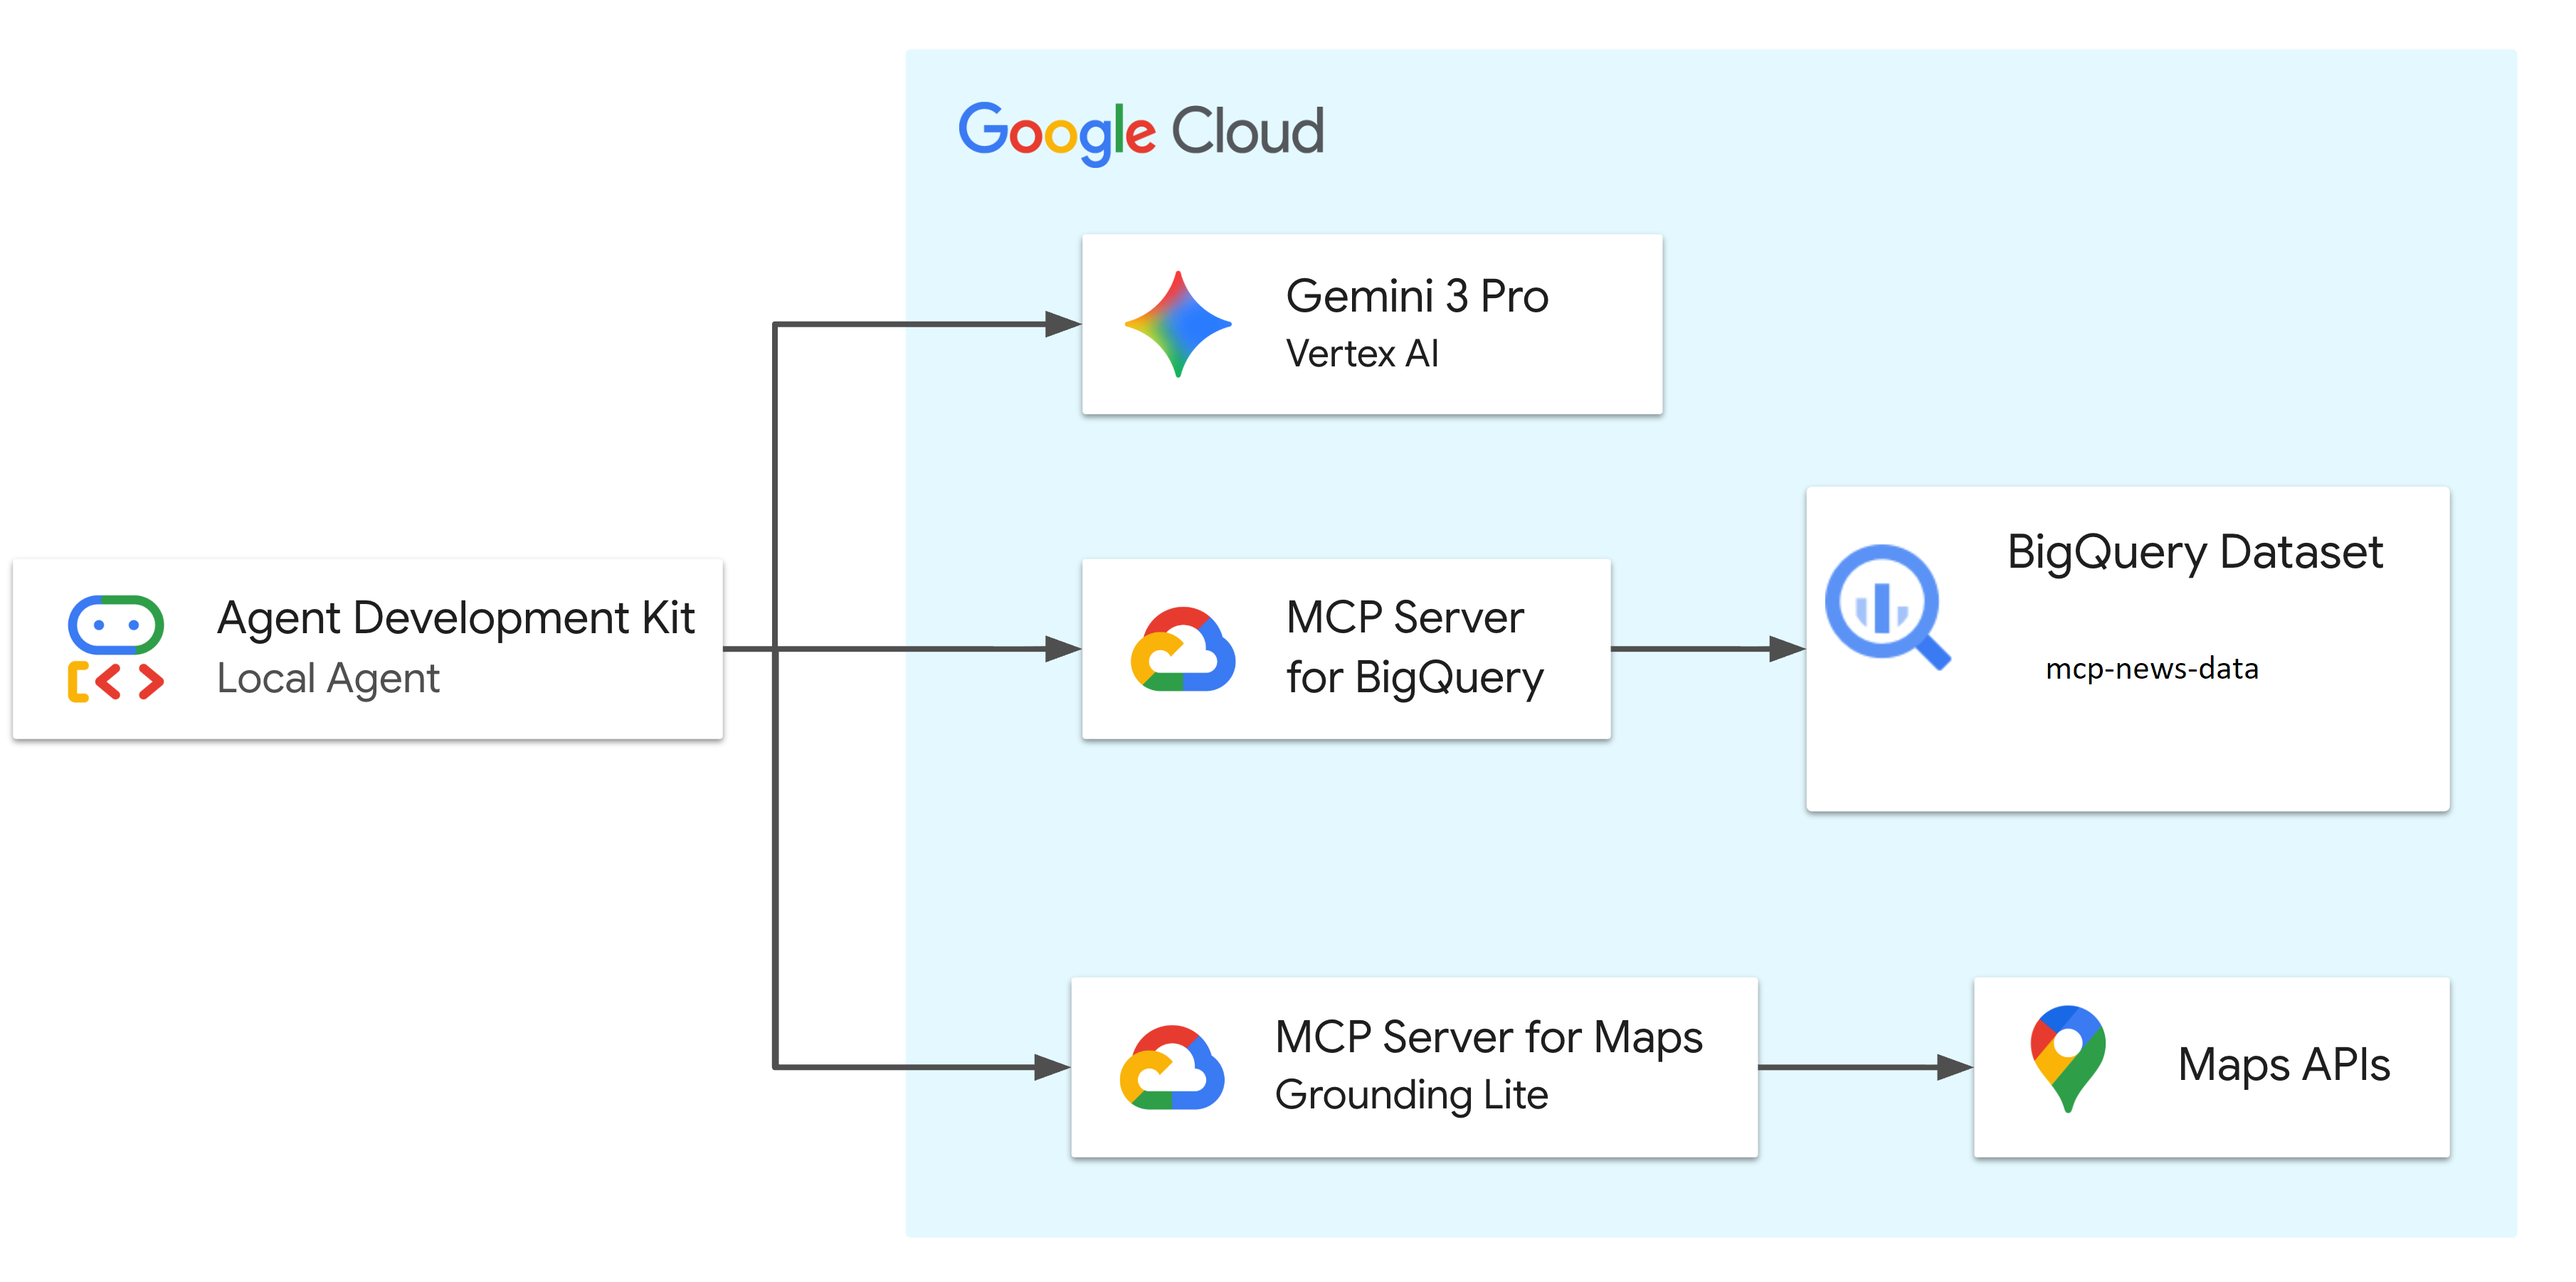
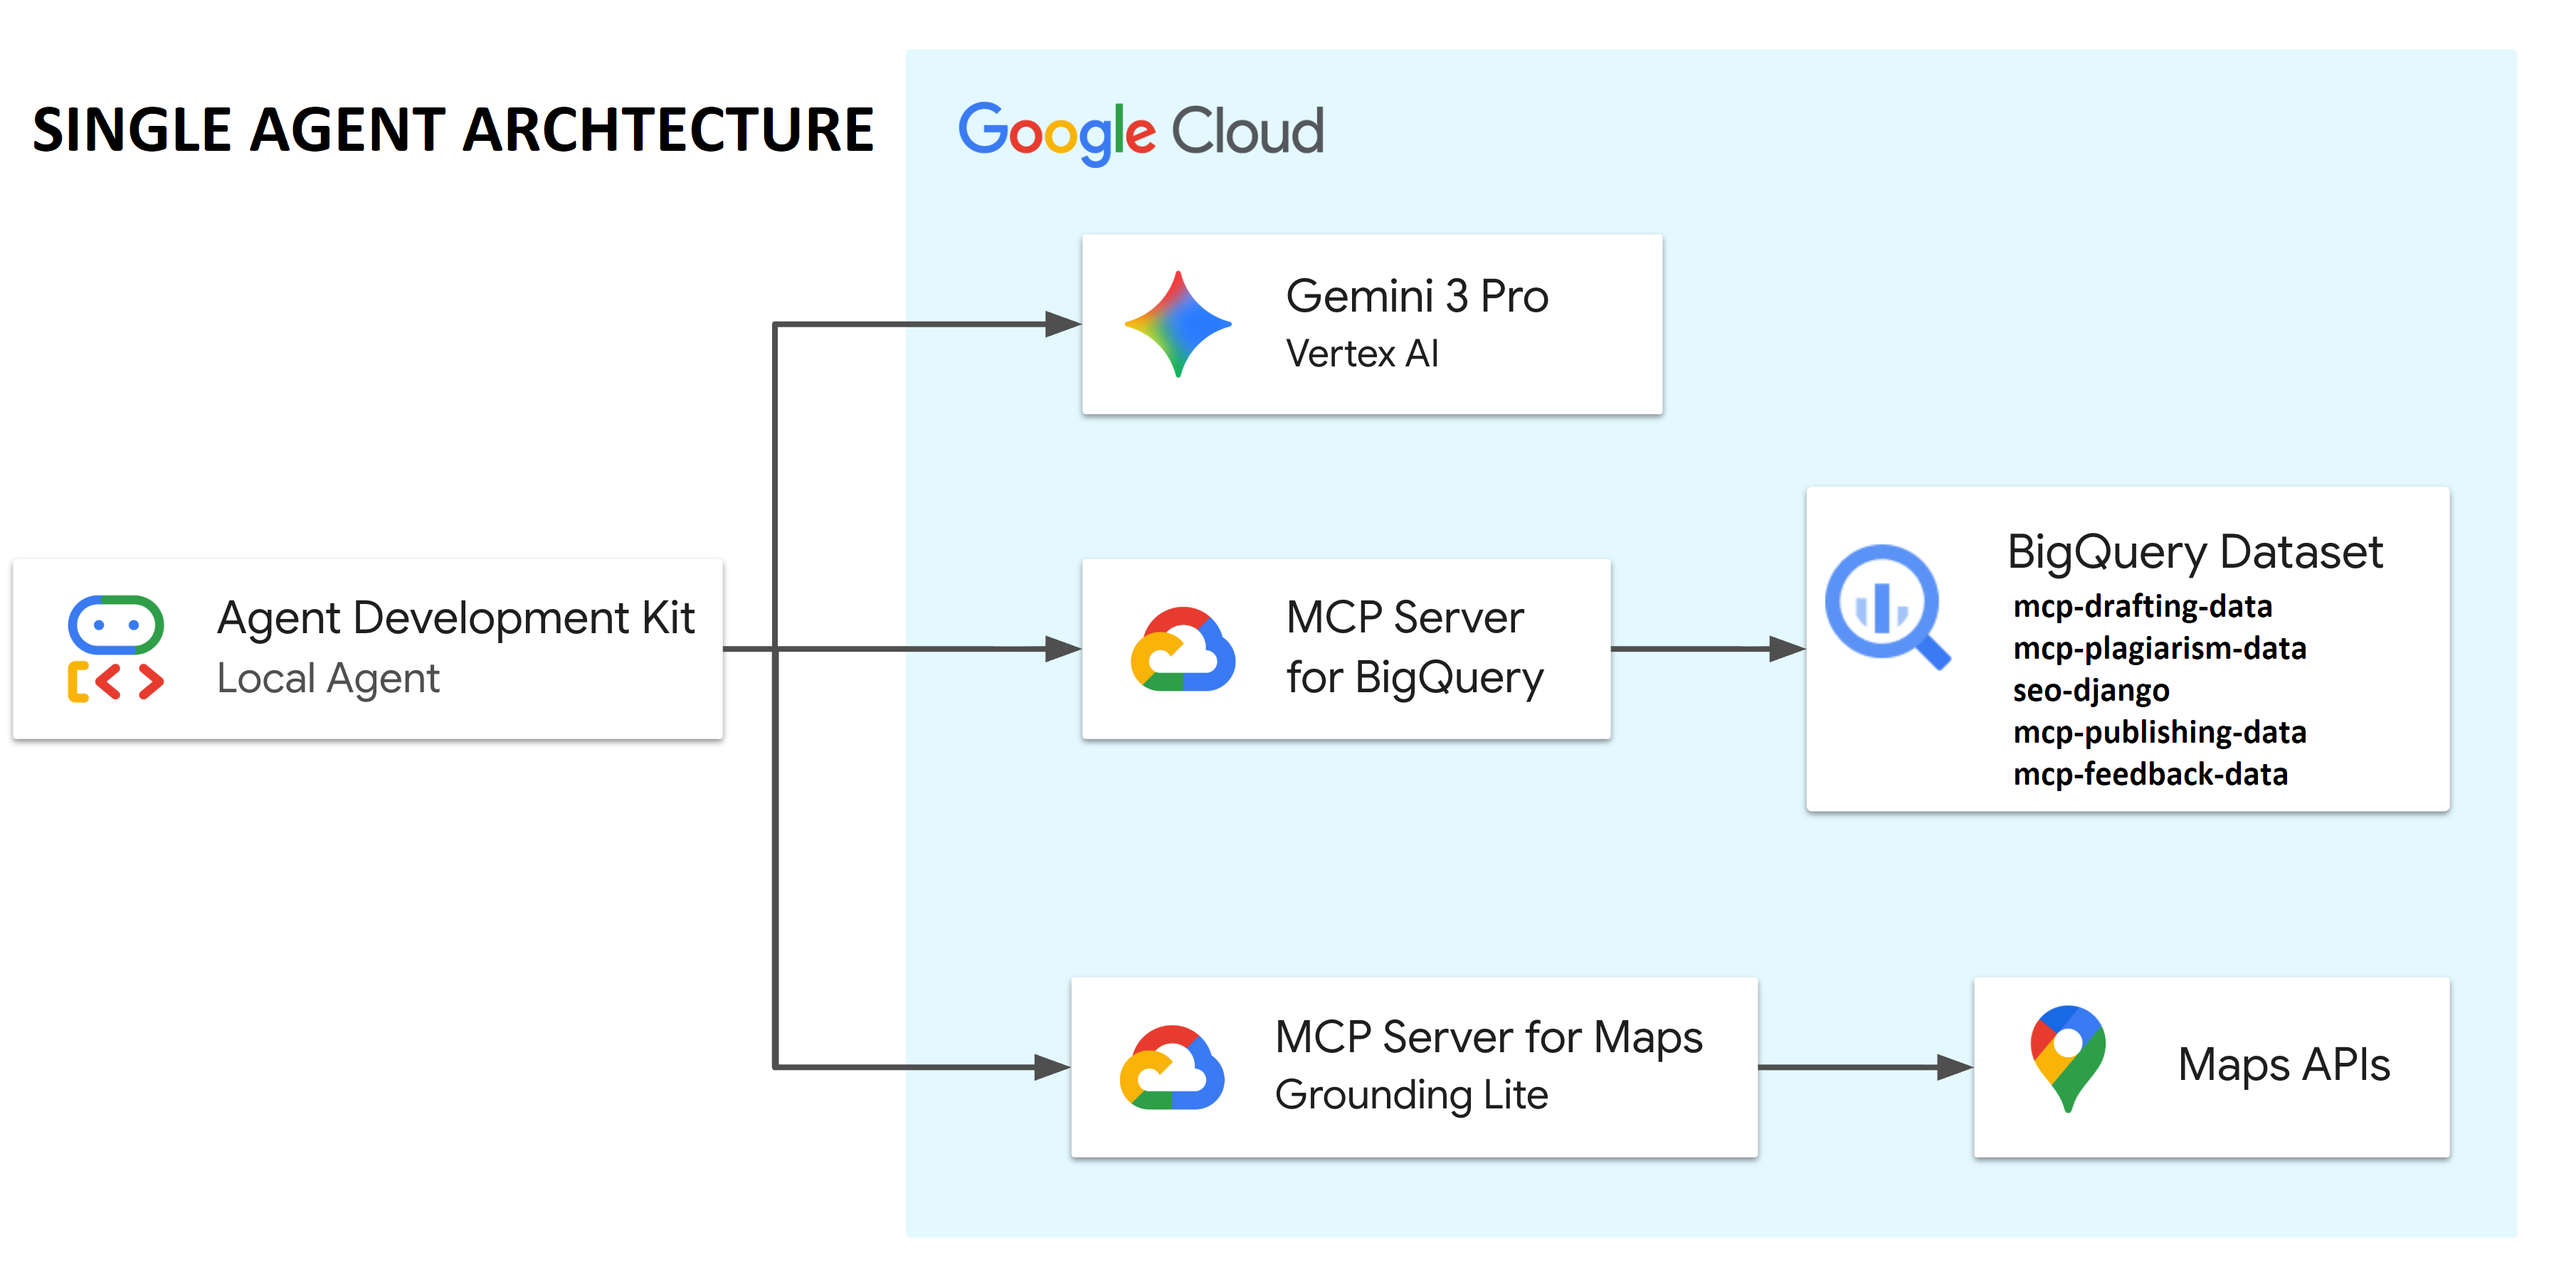
updated README and architecture diagrams.

Changed region(s): [[0.0, 0.0622, 0.3434, 0.1243], [0.7804, 0.4661, 0.9052, 0.6215]]

diff --git a/multi-agent-collaboration/launchmyblog/README.md b/multi-agent-collaboration/launchmyblog/README.md
@@ -14,7 +14,11 @@ This scenario demonstrates an AI Agent's ability to orchestrate enterprise data 
 
 The agent autonomously queries BigQuery to find blogs and uses Google Maps to validate micro-location details. The demo relies below key datasets:
 
-1.  **mcp-news-data:** To identify the news content as per input given by user as per region, category like sports, entertainment, politics etc.
+1.  **mcp-drafting-data:** To identify the blog content as per input given by user.
+2.  **mcp-plagiarism-data:** To identify overlapping content for plagiarism.
+3.  **seo datasets:** To fix the seo, organize keywords and metatags etc.
+4.  **mcp-publishing-data:** To publish the final content on blogging platform and fetch the blog data and status of 
+5.  **mcp-feedback-data:** To analyze feedback from users and blog readers.
 
 
 ### Architecture Diagram
@@ -22,6 +26,9 @@ The agent autonomously queries BigQuery to find blogs and uses Google Maps to va
 ![Architecture Diagram](architecture_diagram.png)
 
 The diagram above illustrates the flow of information in this demo. The Agent, powered by Gemini 3 Pro Preview, orchestrates requests between the user and Google Cloud services. It uses a remote (Google hosted) MCP server to securely access BigQuery for mcp-news-data, and Google Maps APIs for real-world location analysis and validation.
+
+ a representation of your refined blogging pipeline:
+![alt text](multi-agent-workflow-1.png)
 
 ## Repository Structure
 
@@ -77,48 +84,6 @@ launchmynews/
 └── README.md                    # This documentation
 ```
 
- a trace diagram of your refined blogging pipeline with the new Plagiarism Checker Agent included:
- ┌───────────────┐
- │ Human Author  │
- │ (research,    │
- │ draft input)  │
- └───────┬───────┘
-         │
-         ▼
- ┌───────────────┐
- │ Drafting Agent│
- │ (structure,   │
- │ citations)    │
- └───────┬───────┘
-         │
-         ▼
- ┌───────────────────────┐
- │ Plagiarism Checker    │
- │ (alerts overlap,      │
- │ does not block)       │
- └───────┬───────────────┘
-         │
-         ▼
- ┌───────────────┐
- │ SEO Agent     │
- │ (keywords,    │
- │ meta tags)    │
- └───────┬───────┘
-         │
-         ▼
- ┌───────────────┐
- │ Publishing    │
- │ Agent         │
- │ (WordPress    │
- │ integration)  │
- └───────┬───────┘
-         │
-         ▼
- ┌───────────────┐
- │ Feedback Agent│
- │ (metrics,     │
- │ insights)     │
- └───────────────┘
 
 ## Prerequisites
 
